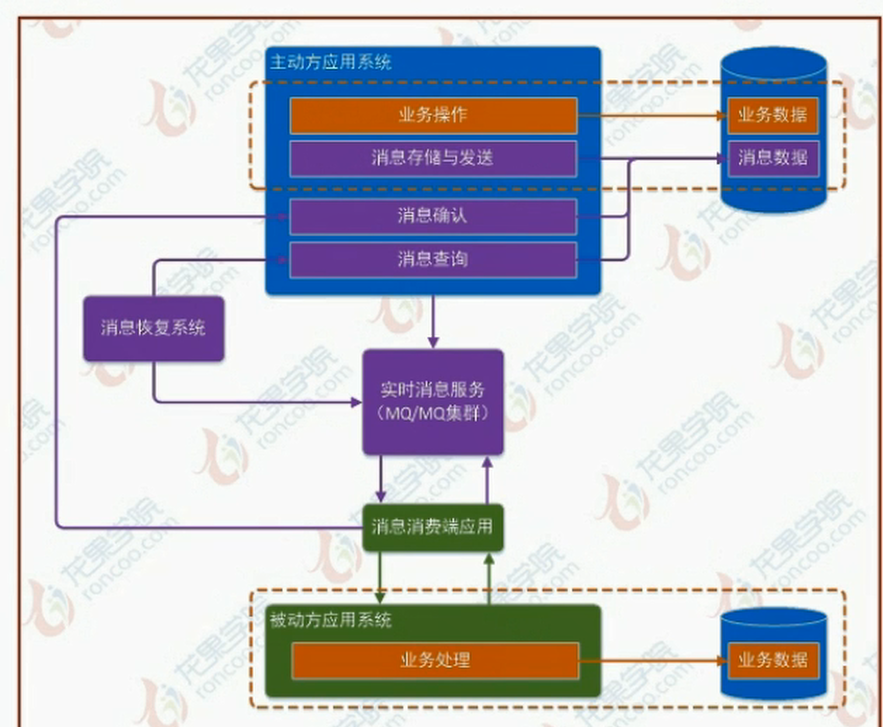
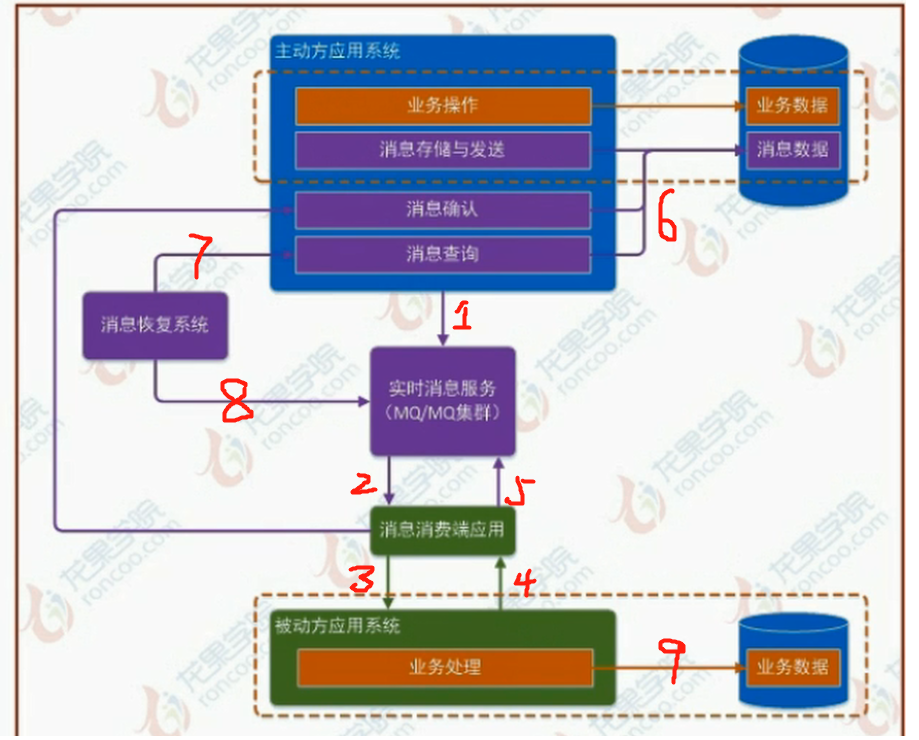
Merge branch 'master' of https://github.com/Dong-Xia/javaKnowlendge
# Conflicts:
#	src/main/docs/distributed/分布式事务解决方案.md

diff --git a/src/main/docs/distributed/基于本地消息服务的可靠消息最终一致性方案.md b/src/main/docs/distributed/基于本地消息服务的可靠消息最终一致性方案.md
@@ -17,6 +17,21 @@
 并结合生产者生产信息服务一起，使用**本地事务实现数据一致性**。如图2所示。
 ![本地消息服务](/src/main/images/本地消息服务.jpg)
     　　　　　　　　　　　　　　　　　图２ 可靠消息最终一致性方案--本地消息服务
-    
-　　    
+### 根据描述中4个步骤分析本地消息服务的可行性
+1. 消息发送一致性的正向流程（可靠消息的前提保障）-- 实现思路
+  
+　　图2中消息发送和存储这样一套服务会耦合在每一个消息生产方服务中，并共用消息生产方服务的数据库。
+具体实现会在数据库中建立一张消息记录表，用于记录消息的创建时间、消息内容、是否死亡、状态、重发次数等
+信息，如下表１所示：
+![本地消息业务表](/src/main/images/本地消息业务表.jpg)
+　　　　　　　　　　　　　　　　　　　     表１ 本地消息表
+2. 消息发送一致性的异常处理流程 -- 如何解决
+ 
+　　图2中，业务操作和消息存储发送处于同一个事务中,具备ACID的特征，保证了要么都成功，要么都失败。
+ 
+3. 消息投递（消费）的正向流程 -- 实现思路
+  
+4. 消息投递（消费）的异常处理流程 -- 如何解决
+
+  
 　　
